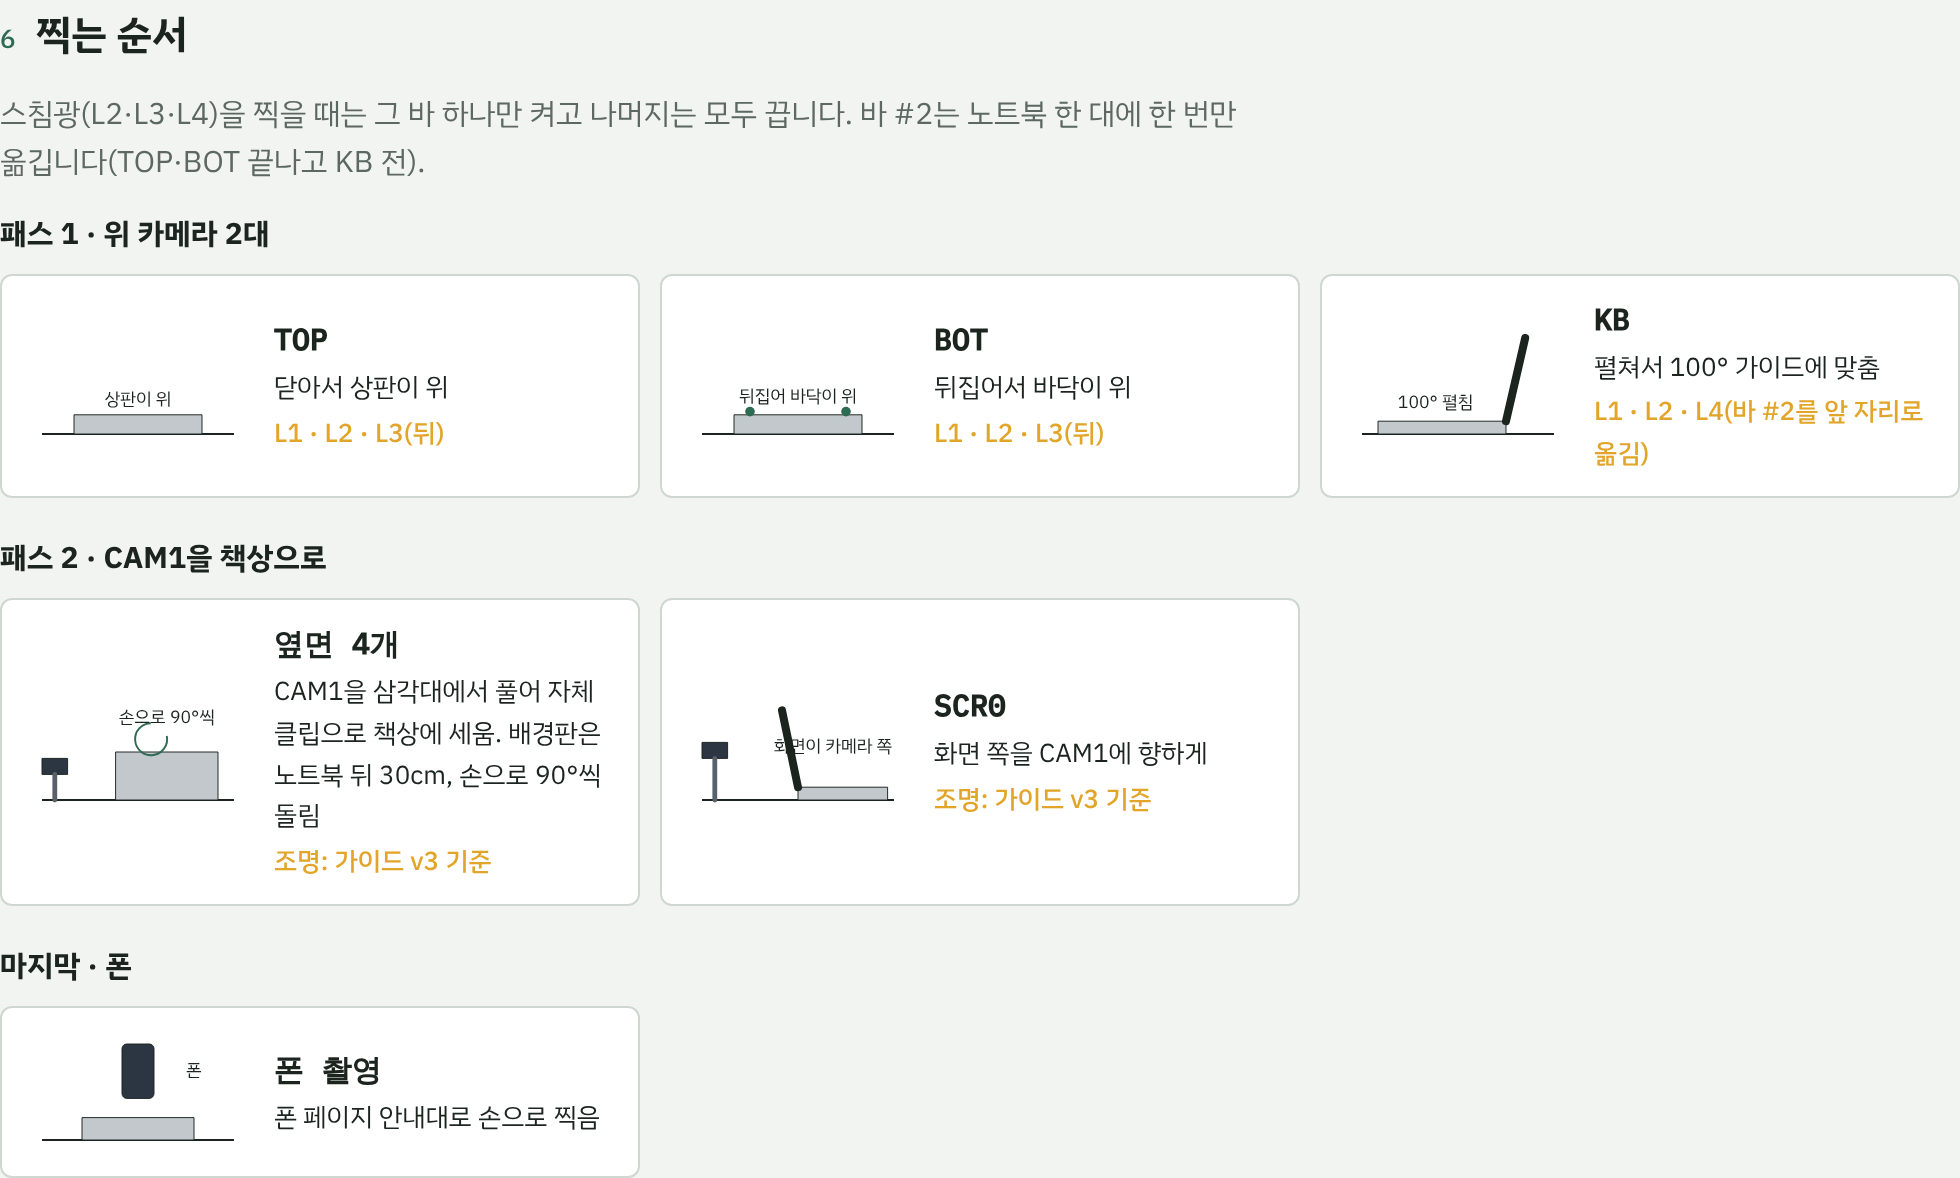
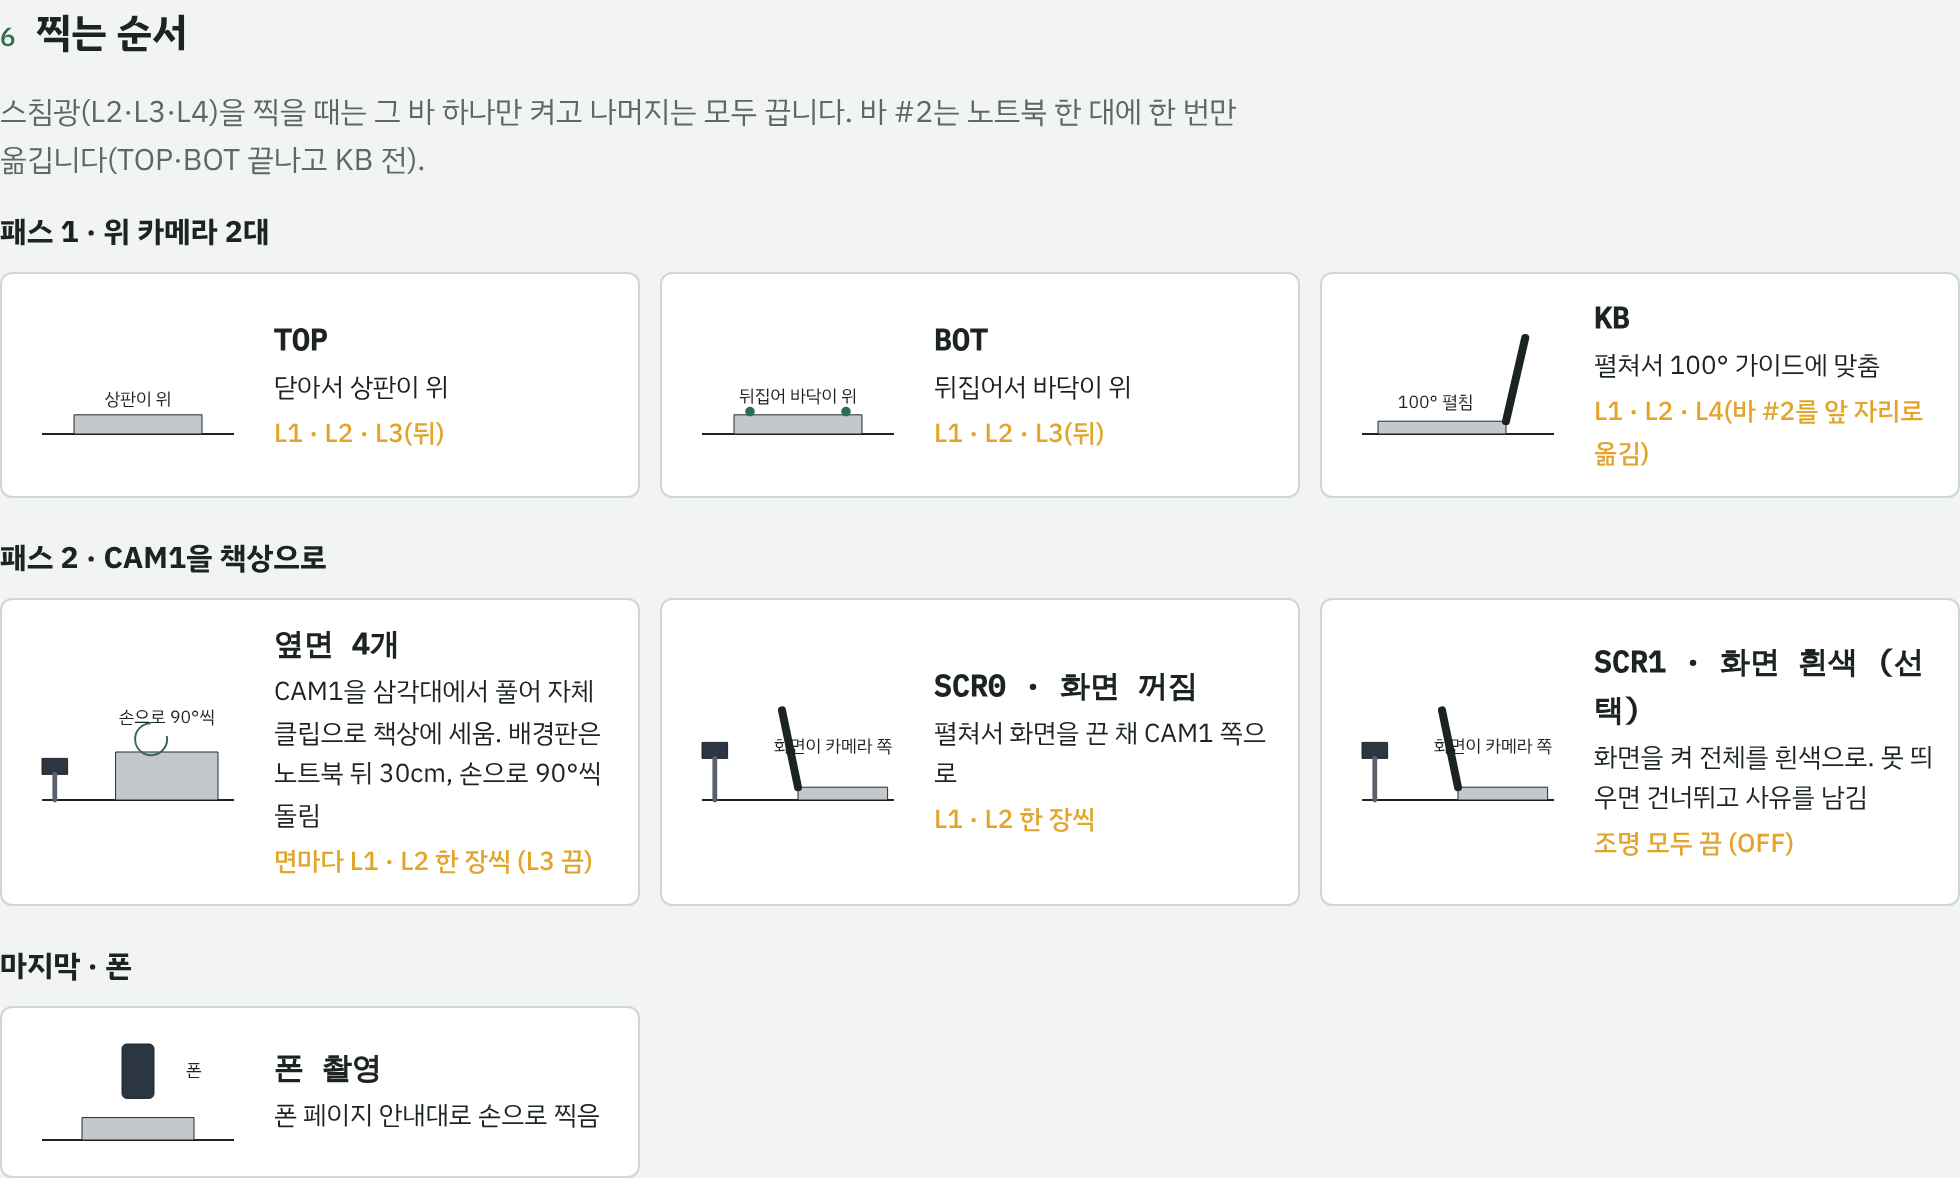
docs: 11/2 결정 (패스 2 조명 L1·L2, SCR1 선택 면, 기둥 간격)
Claude-Session: https://claude.ai/code/session_01U2MzDw2L5NSXrxiZoMaoth

diff --git a/booth/README.md b/booth/README.md
@@ -29,6 +29,7 @@
 
 - 친구 설계도 원본: "TRACE 촬영 부스 겸 출고·반납 부스 설계도" (치수·재단표가 이 문서와 같음)
 - 촬영 절차: B의 촬영 가이드 v3, `capture/README.md` (카메라 설정 방법)
+- 부스 제작 단계별 체크: [부스 제작 매뉴얼](https://claude.ai/artifact/PN4quCJWnuU55hrm1NHkKw) (휴대폰으로 보며 체크)
 
 ![완성 모습](look.png)
 
@@ -87,7 +88,7 @@
     - 보드 B: ⑥ 배경판 45×60, ⑦ 반사판 30×45, ⑧ 발 20×15 × 2, ⑨ 100° 가이드, ⑩ ID 카드 받침, ⑪ 자투리
 2. **빔.** 28cm 띠에 접는 선 4개를 8·5·8·5·2 간격으로 긋고(윗종이와 폼만), 네모 상자로 접어 마지막 2cm 날개를 글루건으로 붙입니다. 높이 8cm 쪽을 세워야 안 처집니다.
 3. **기둥.** 판 위 가운데에 홈 5.2×8cm를 파고, 바깥쪽 가운데에 보강대를 세로로 붙여 T자로 만든 뒤 발을 ㄴ자로 붙입니다.
-4. **배치.** 바닥 천을 깔고, 기둥을 노트북 가운데에서 앞뒤로 45cm에 세운 뒤 발을 마스킹 테이프로 붙입니다. 빔을 홈에 끼우고 글루건으로 고정합니다. 빔은 가운데 선에서 왼쪽으로 3~4cm 비켜 세웁니다.
+4. **배치.** 바닥 천을 깔고, 빔을 두 기둥 홈에 끼운 채로 빔 양 끝이 홈 밖으로 1cm쯤 나오게 기둥 간격을 맞춥니다(기둥 안쪽 면 사이 약 88cm, 노트북 가운데에서 앞뒤 약 44cm). 그대로 자리에 놓고 발을 마스킹 테이프로 붙인 뒤 빔을 글루건으로 고정합니다. 도면의 45cm는 기둥 판 가운데까지의 거리라, 숫자보다 빔이 두 홈에 끝까지 걸치는 것이 먼저입니다. 빔은 가운데 선에서 왼쪽으로 3~4cm 비켜 세웁니다.
 5. **카메라.** 삼각대의 폰 집게는 빼고 볼 위 나사에 C920 클립 아래 구멍을 돌려 끼웁니다. 다리를 접어 빔 위에 눕히고 케이블타이 2군데로 묶습니다. 볼헤드를 90° 꺾어 렌즈가 바닥을 보게 하고 조임 링을 꽉 조입니다.
     - CAM1은 가운데에서 앞으로 6cm, CAM2는 뒤로 6cm (간격 12cm)
     - C920 앞 흰 LED는 마스킹 테이프 두 겹 + 네임펜으로 가림
@@ -126,6 +127,21 @@
 
 맥북 10대를 한 대 20분으로 찍으면 약 3시간 20분입니다. 노트북은 대기 책상(준비) → 부스(핸들러·운영) → 완료 책상으로 한 방향으로만 흐릅니다.
 
+## 촬영 목록 (면 × 조명)
+
+한 대에 위 카메라 18장(패스 1) + CAM1 10장(패스 2) + SCR1 1장(선택)입니다. 조명은 한 장에 하나만 켭니다.
+
+| 면 | 뜻 · 자세 | 패스 · 카메라 | 조명 (한 장씩) | 필수 |
+| --- | --- | --- | --- | --- |
+| TOP | 상판. 닫아서 상판이 위 | 패스 1 · CAM1, CAM2 | L1, L2, L3 | 필수 |
+| BOT | 바닥. 뒤집어 바닥이 위 | 패스 1 · CAM1, CAM2 | L1, L2, L3 | 필수 |
+| KB | 키보드·팜레스트. 100° 가이드로 펼침 | 패스 1 · CAM1, CAM2 | L1, L2, L4 | 필수 |
+| SF · SB · SL · SR | 옆면 앞·뒤·왼·오른. 닫아서 손으로 90°씩 | 패스 2 · CAM1(책상) | L1, L2 | 필수 |
+| SCR0 | 화면 쪽, 화면 꺼짐. 펼쳐서 화면이 카메라 쪽 | 패스 2 · CAM1(책상) | L1, L2 | 필수 |
+| SCR1 | 화면 쪽, 화면을 켜 전체 흰색 | 패스 2 · CAM1(책상) | OFF(모든 조명 끔) | 선택: 못 찍으면 건너뛰고 사유 |
+
+코드는 `contracts/codes.yaml` 0.3.0과 같습니다. 세트 완료 검사는 필수 8면만 봅니다(`face_required.BOOTH`).
+
 **노트북 한 대 순서**
 
 1. **준비:** ID 카드를 끼우고 대여 상태 사진을 찍습니다. 먼지는 불어서만 털고 닦지 않습니다.
@@ -135,13 +151,17 @@
     - BOT: 뒤집어 바닥이 위. 조명 L1 · L2 · L3(뒤)
     - 바 #2를 뒤 자리에서 앞 자리(L4)로 옮김 (한 대에 한 번)
     - KB: 펼쳐서 100° 가이드에 맞춤. 조명 L1 · L2 · L4(앞)
-4. **패스 2 (옆면):** CAM1만 삼각대에서 풀어 자체 클립으로 책상에 세웁니다. 배경판을 노트북 뒤 30cm에 두고 옆면 4개(SF·SB·SL·SR)를 손으로 90°씩 돌리며 찍고, 화면 쪽(SCR0)도 찍습니다. 끝나면 CAM1을 다시 끼우고 감시선을 맞춥니다.
+4. **패스 2 (옆면·화면):** CAM1만 삼각대에서 풀어 자체 클립으로 노트북 앞 책상에 세우고, 배경판을 노트북 뒤 30cm에 둡니다. 끝나면 CAM1을 다시 끼우고 감시선을 맞춥니다. 패스 2는 노트북마다 합니다. CAM1을 처음 끼울 때 C920 클립과 볼헤드에 이어지는 선을 네임펜으로 그어 두고, 다시 끼울 때마다 그 선에 맞춰 나사를 조입니다.
+    - 옆면 4개(SF·SB·SL·SR): 닫은 노트북을 손으로 90°씩 돌려 찍을 면을 카메라 쪽으로. 면마다 L1 한 장, L2 한 장 (L3는 끔)
+    - SCR0: 펼쳐서 화면을 끈 채 카메라 쪽으로. L1 한 장, L2 한 장
+    - SCR1 (선택): 화면을 켜 전체를 흰색으로 띄우고 조명을 모두 끈 채(OFF) 한 장. 로그인 없이 흰 화면을 못 띄우면 건너뛰고 사유를 남깁니다
 5. **폰:** 폰 페이지 안내대로 손으로 찍습니다(거치대에 고정하지 않음).
 6. **완료:** 운영 화면에 "완료"가 뜨면 완료 책상으로 보냅니다.
 
 **꼭 지킬 규칙**
 
 - 스침광(L2·L3·L4)을 찍을 때는 그 바 하나만 켜고 L1을 포함해 나머지는 모두 끕니다.
+- 패스 2에서 L3는 켜지 않습니다. 노트북 뒤에서 카메라 쪽으로 빛이 들어옵니다(역광).
 - 노트북을 만지는 사람은 니트릴 장갑을 낍니다.
 - 빌린 노트북은 닦지 않고, 테이프를 붙이지 않습니다.
 - 한 대가 25분을 넘기 시작하면 테스트용 맥북 2대를 먼저 끝내고, 남은 기기는 2차 대여로 넘깁니다.

diff --git a/design/mvp-design.md b/design/mvp-design.md
@@ -41,7 +41,7 @@ MVP 필수 요구사항은 기능 44개, 비기능 6개입니다. 집 PC(RTX 407
 | FR-USR-04 | 회원 | 고객은 탈퇴할 수 있고, 탈퇴하면 이메일·이름을 지우고 렌탈 기록은 익명으로 남긴다 | 탈퇴 후 DB에 이메일·이름이 남지 않는다 | A | 필수 |
 | FR-USR-05 | 회원 | 가입하면 이메일로 6자리 인증 코드가 가고, 코드를 넣어야 계정이 활성화된다 | 인증 전 로그인은 403, 코드는 10분 뒤 만료되고 5번 틀리면 새로 받아야 한다 | A | 필수 |
 | FR-USR-06 | 회원 | 비밀번호를 잊은 고객은 이메일로 받은 코드로 새 비밀번호를 정한다 | 없는 이메일도 같은 응답을 받고, 재설정하면 그 계정의 리프레시 토큰이 모두 지워진다 | A | 필수 |
-| FR-CAP-01 | 촬영 | 부스는 자세별 면·조명 세트를 버튼 한 번에 찍어 올린다 | 한 세트에서 빠진 면이 0개다 | B | 필수 |
+| FR-CAP-01 | 촬영 | 부스는 자세별 면·조명 세트를 버튼 한 번에 찍어 올린다 | 한 세트에서 필수 8면 중 빠진 면이 0개다(SCR1은 선택, 건너뛰면 사유) | B | 필수 |
 | FR-CAP-02 | 촬영 | 모든 사진에 면·조명·카메라 코드와 SHA-256을 남긴다 | 내려받은 파일 해시와 저장된 해시가 같다 | B | 필수 |
 | FR-CAP-03 | 촬영 | 폰 웹앱은 면마다 윤곽 가이드를 띄우고 블러·반사를 검사한다 | 불량 사진은 재촬영 전까지 제출되지 않는다 | C | 필수 |
 | FR-CAP-04 | 촬영 | 품질 미달 면은 "판정 불가"로 두고 비교에서 뺀다 | 판정 불가 면은 등급 계산에 쓰이지 않는다 | C | 필수 |
@@ -273,7 +273,7 @@ Crowfoot ERD v1(10/31): [TRACE MVP ERD](https://crowfoot.java21.net/workspaces/6
 
 | 라우팅 키 | 발행 | 소비 (큐) | 언제 | 핵심 필드 |
 | --- | --- | --- | --- | --- |
-| `trace.capture.uploaded` | capture-server | inspect-worker (`trace.inspect.requested`) | 촬영 세트 9면 업로드 완료 | captureSetId, source(BOOTH·PHONE), needDetection, photos\[photoId, face, light, objectKey, sha256\] |
+| `trace.capture.uploaded` | capture-server | inspect-worker (`trace.inspect.requested`) | 촬영 세트 업로드 완료(출처별 필수 면, SCR1 선택) | captureSetId, source(BOOTH·PHONE), needDetection, photos\[photoId, face, light, objectKey, sha256\] |
 | `trace.inspect.completed` | inspect-worker | capture-server (`trace.capture.inspected`) | 정합·탐지·텍스처 완료 | captureSetId, alignments\[photoId, homography, errorPx\], defects\[photoId, class, polygon, confidence\], textureKeys, modelVersion |
 | `trace.checkpoint.graded` | capture-server | report-server (`trace.report.updates`) | 이전 시점과 비교·등급 완료 | grade, ruleVersion, newDefectIds, unjudgeableFaces |
 | `trace.diagnostics.recorded` | diagnostics-server | report-server (`trace.report.updates`) | 진단 저장·비교 완료 | runId, sha256, flags\[kind, detail\] |

diff --git a/design/kickoff-plan.md b/design/kickoff-plan.md
@@ -56,7 +56,7 @@ Oct 30, 2026 · @민서
 | FR-RNT-02 | 렌탈·기기 | 렌탈 건은 출고·수령·반납 세 시점을 순서대로 가진다 | 출고 전에 수령 기록을 만들면 거부된다 | 필수 |
 | FR-RNT-03 | 렌탈·기기 | 기종 정보(치수 포함)를 관리한다 | 모델명으로 3D 트윈 치수를 조회한다 | 필수 |
 | FR-RNT-04 | 렌탈·기기 | 고객 수령 촬영용 1회용 링크(QR)를 발급한다 | 만료된 링크로는 업로드되지 않는다 | 필수 |
-| FR-CAP-01 | 촬영 | 부스는 자세별 면·조명 세트를 버튼 한 번에 찍어 올린다 | 한 세트에서 빠진 면이 0개다 | 필수 |
+| FR-CAP-01 | 촬영 | 부스는 자세별 면·조명 세트를 버튼 한 번에 찍어 올린다 | 한 세트에서 필수 8면 중 빠진 면이 0개다(SCR1은 선택, 건너뛰면 사유) | 필수 |
 | FR-CAP-02 | 촬영 | 모든 사진에 면·조명·카메라 코드와 SHA-256을 남긴다 | 내려받은 파일 해시와 저장된 해시가 같다 | 필수 |
 | FR-CAP-03 | 촬영 | 폰 웹앱은 면마다 윤곽 가이드를 띄우고 블러·반사를 검사한다 | 불량 사진은 재촬영 전까지 제출되지 않는다 | 필수 |
 | FR-CAP-04 | 촬영 | 품질 미달 면은 "판정 불가"로 두고 비교에서 뺀다 | 판정 불가 면은 등급 계산에 쓰이지 않는다 | 필수 |

diff --git a/team/standup/2026-11-02.md b/team/standup/2026-11-02.md
@@ -32,3 +32,4 @@
 - (A) C1 초안 PR이 올라왔습니다: contracts PR #1. B·C 리뷰 부탁드려요. codes.yaml 0.3.0에 `error_code`(오류 code 34개)·`auth.token_role`·`report.chain_status`·`report.progress_stage`가 추가됐습니다
 - (A) codes.yaml 조명 `OFF`를 따옴표로 감쌌습니다. PyYAML 등 YAML 1.1 파서가 따옴표 없는 OFF를 false로 읽습니다. codes.yaml을 읽는 코드가 있으면 확인해 주세요
 - (B→A) 계약 확인 요청: `POST /captures/sets` 응답 `uploads[]`에 카메라가 없어 부스(CAM1·CAM2 두 장)를 구분할 수 없음, 부스 필수 면은 8면(SCR1 선택)이라 `complete`의 409 기준을 소스별로 정해야 함 (booth `specs/001-booth-capture-tool/plan.md`)
+- 11/2 결정(A): 패스 2(옆면 4개·SCR0) 조명은 면마다 L1·L2 한 장씩(L3 끔). SCR1(화면 흰색)은 조명 OFF로 한 장, 선택 면(못 찍으면 사유). 부스 필수 면 8개(codes.yaml 0.3.0 face_required). 업로드 URL 응답에 camera 추가, 11/3 전 C1에 반영. booth/README.md "촬영 목록 (면 × 조명)"

diff --git a/design/ddl.md b/design/ddl.md
@@ -88,6 +88,7 @@ CREATE TABLE capture.capture_set (
   booth_id       varchar(32),
   status         varchar(16) NOT NULL CHECK (status IN ('UPLOADING','UPLOADED','INSPECTED','GRADED')),
   quality        varchar(16) NOT NULL DEFAULT 'OK' CHECK (quality IN ('OK','UNJUDGEABLE')),
+  skipped_faces  jsonb       NOT NULL DEFAULT '{}',              -- 건너뛴 선택 면과 사유 {"SCR1": "사유"} (11/2)
   created_at     timestamptz NOT NULL DEFAULT now(),
   updated_at     timestamptz NOT NULL DEFAULT now()
 );
@@ -106,7 +107,7 @@ CREATE TABLE capture.photo (
   taken_at        timestamptz  NOT NULL,
   created_at      timestamptz  NOT NULL DEFAULT now(),
   updated_at      timestamptz  NOT NULL DEFAULT now(),
-  UNIQUE (capture_set_id, face, light)
+  UNIQUE (capture_set_id, face, light, camera)   -- 위 카메라 2대가 같은 면·조명을 찍음 (11/2)
 );
 
 CREATE TABLE inspection.face_alignment (
